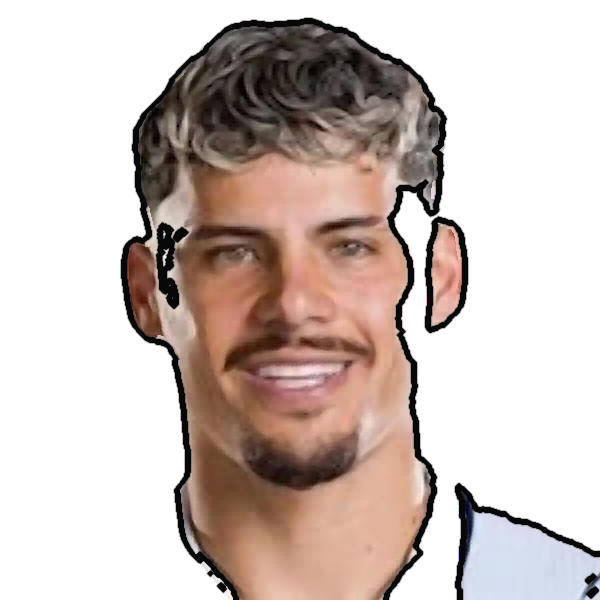
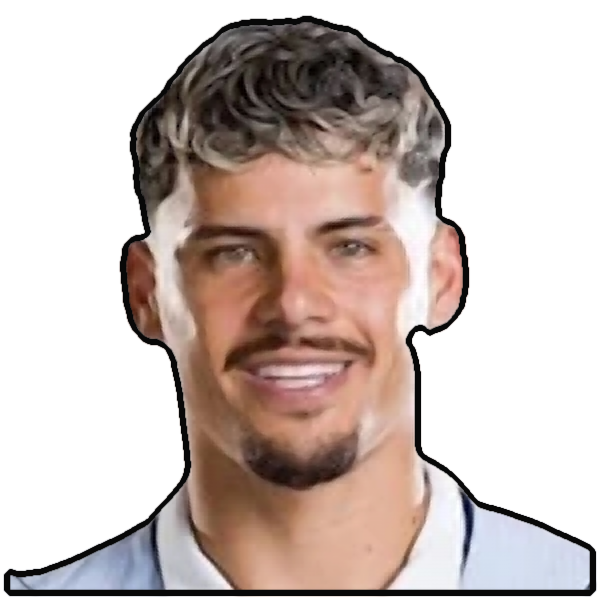
Recorte de caras: el fondo claro ya no se come mejillas ni orejas
Con fondo blanco y piel clara, el fondo detectado por color se metía en la cara.
Ahora no entra en la zona que el modelo de personas marca como segura.
Se rehicieron las caras de Maxi Araújo y Bentancur (tenían ese defecto); las demás
salen iguales con el cambio.

Claude-Session: https://claude.ai/code/session_012tUgoMqYmHno33ZCYP7Qfs

diff --git a/automatizacion/caras.py b/automatizacion/caras.py
@@ -69,11 +69,12 @@ def _sin_fondo_matting(im):
     lowd = dist < 18
     semillas = np.zeros_like(lowd); semillas[0, :] = True
     h7 = int(H * 0.7); semillas[:h7, 0] = True; semillas[:h7, -1] = True
-    fondo = ndi.binary_propagation(semillas & lowd, mask=lowd)
     # trimapa
     r_in, r_out = max(3, int(lado * 0.014)), max(3, int(lado * 0.012))
     nucleo = ndi.binary_erosion(base, iterations=r_in)
     nucleo_h = ndi.binary_erosion(m_h > 0.5, iterations=r_in)          # cara/hombros seguros del modelo de personas
+    # el fondo claro no entra en la cara/hombros seguros: con fondo blanco y piel clara se comía mejillas y orejas
+    fondo = ndi.binary_propagation(semillas & lowd & ~nucleo_h, mask=lowd & ~nucleo_h)
     seguro_fg = (nucleo | nucleo_h) & ~fondo
     seguro_bg = ~ndi.binary_dilation(base, iterations=r_out) | (fondo & ~ndi.binary_erosion(base, iterations=r_in * 3))
     tri = np.full((H, W), 0.5)
